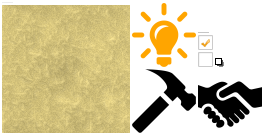
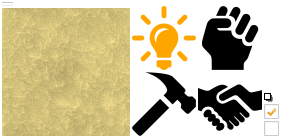
Publish a notification when a city revolt from player. See #19

diff --git a/core/src/com/galvarez/ttw/model/InfluenceSystem.java b/core/src/com/galvarez/ttw/model/InfluenceSystem.java
@@ -1,5 +1,6 @@
 package com.galvarez.ttw.model;
 
+import static java.lang.Integer.compare;
 import static java.lang.Math.max;
 import static java.lang.Math.min;
 
@@ -41,7 +42,10 @@ import com.galvarez.ttw.model.map.Influence;
 import com.galvarez.ttw.model.map.MapPosition;
 import com.galvarez.ttw.model.map.MapTools;
 import com.galvarez.ttw.model.map.MapTools.Border;
+import com.galvarez.ttw.rendering.NotificationsSystem;
+import com.galvarez.ttw.rendering.NotificationsSystem.Type;
 import com.galvarez.ttw.rendering.components.Name;
+import com.galvarez.ttw.screens.overworld.OverworldScreen;
 
 /**
  * This classes computes the influence from the different sources (i.e. cities)
@@ -89,17 +93,24 @@ public final class InfluenceSystem extends EntitySystem {
 
   private ComponentMapper<Capital> capitals;
 
+  private ComponentMapper<AIControlled> ai;
+
+  private NotificationsSystem notifications;
+
   private final GameMap map;
 
   private final SessionSettings settings;
 
   private final Random rand = new Random();
 
+  private final OverworldScreen screen;
+
   @SuppressWarnings("unchecked")
-  public InfluenceSystem(GameMap gameMap, SessionSettings settings) {
+  public InfluenceSystem(GameMap gameMap, SessionSettings settings, OverworldScreen screen) {
     super(Aspect.getAspectForAll(InfluenceSource.class));
     this.map = gameMap;
     this.settings = settings;
+    this.screen = screen;
   }
 
   @Override
@@ -287,13 +298,11 @@ public final class InfluenceSystem extends EntitySystem {
       // revolt happens, select the tile!
       Optional<Influence> tile = source.influencedTiles
           .stream()
-          .filter(p -> map.getTerrainAt(p).canStart())
-          .filter(p -> !map.isOnMapBorder(p))
-          .filter(p -> map.getEntityAt(p.x, p.y) == null)
-          .filter(p -> isAtCityBorder(city, p))
+          .filter(p -> map.getTerrainAt(p).canStart() && !map.isOnMapBorder(p)//
+              && map.getEntityAt(p.x, p.y) == null && isAtCityBorder(city, p))
           .map(p -> map.getInfluenceAt(p))
           .min(
-              (i1, i2) -> Integer.compare(i1.getInfluence(city) + i1.getDelta(city) * 2,
+              (i1, i2) -> compare(i1.getInfluence(city) + i1.getDelta(city) * 2,
                   i2.getInfluence(city) + i2.getDelta(city) * 2));
       if (tile.isPresent()) {
         Influence inf = tile.get();
@@ -311,6 +320,9 @@ public final class InfluenceSystem extends EntitySystem {
         inf.addInfluenceDelta(revoltCity, 100 - stability);
         log.info("Created revolting city {} for empire {}", revoltCity.getComponent(Name.class),
             revoltEmpire.getComponent(Name.class));
+        if (!ai.has(city))
+          notifications.addNotification(() -> screen.select(revoltCity), null, Type.REVOLT,
+              "City of %s revolted from %s!", revoltCity.getComponent(Name.class), city.getComponent(Name.class));
         // reset stability to avoid popping revolts in loop
         empirePolicies.stability = 100;
       } else

diff --git a/core/src/com/galvarez/ttw/screens/overworld/OverworldScreen.java b/core/src/com/galvarez/ttw/screens/overworld/OverworldScreen.java
@@ -133,7 +133,7 @@ public final class OverworldScreen extends AbstractScreen {
     buildingsSystem = world.setSystem(new BuildingsSystem(this, settings), true);
     policiesSystem = world.setSystem(new PoliciesSystem(), true);
     diplomaticSystem = world.setSystem(new DiplomaticSystem(this, settings.startWithDiplomacy.get()), true);
-    influenceSystem = world.setSystem(new InfluenceSystem(gameMap, settings), true);
+    influenceSystem = world.setSystem(new InfluenceSystem(gameMap, settings, this), true);
     iaInfluence = world.setSystem(new AIInfluenceSystem(gameMap, this), true);
     iaDiscovery = world.setSystem(new AIDiscoverySystem(), true);
     iaDiplomacy = world.setSystem(new AIDiplomaticSystem(gameMap), true);
@@ -300,10 +300,10 @@ public final class OverworldScreen extends AbstractScreen {
     policiesSystem.process();
     diplomaticSystem.process();
     influenceSystem.process();
-    
+
     world.setDelta(0);
     world.process();
-    
+
     influenceRenderSystem.preprocess();
     notificationsSystem.process();
     turnNumber++;

diff --git a/core/src/com/galvarez/ttw/rendering/NotificationsSystem.java b/core/src/com/galvarez/ttw/rendering/NotificationsSystem.java
@@ -23,7 +23,7 @@ import com.badlogic.gdx.scenes.scene2d.utils.Drawable;
 public final class NotificationsSystem extends VoidEntitySystem {
 
   public enum Type {
-    DISCOVERY, DIPLOMACY, BUILDINGS;
+    DISCOVERY, DIPLOMACY, BUILDINGS, REVOLT;
   }
 
   /** Notifications registered for next turn. */
@@ -41,6 +41,7 @@ public final class NotificationsSystem extends VoidEntitySystem {
     icons.put(Type.DISCOVERY, skin.getDrawable("discovery-bulb"));
     icons.put(Type.DIPLOMACY, skin.getDrawable("diplomacy-handshake"));
     icons.put(Type.BUILDINGS, skin.getDrawable("buildings-hammer"));
+    icons.put(Type.REVOLT, skin.getDrawable("revolt-clenched-fist"));
   }
 
   @Override
